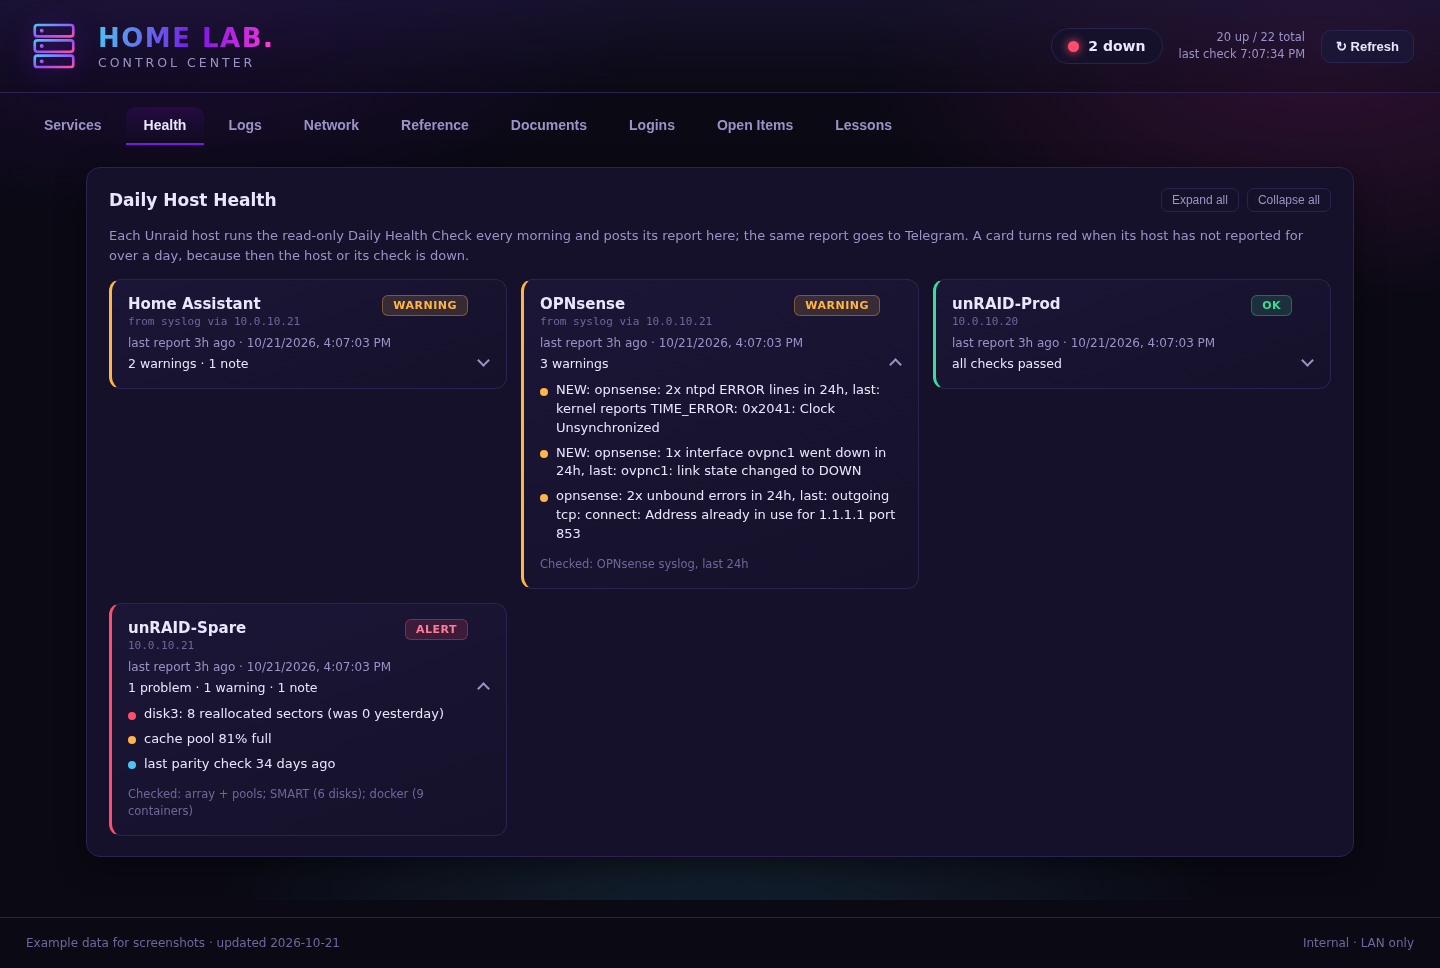
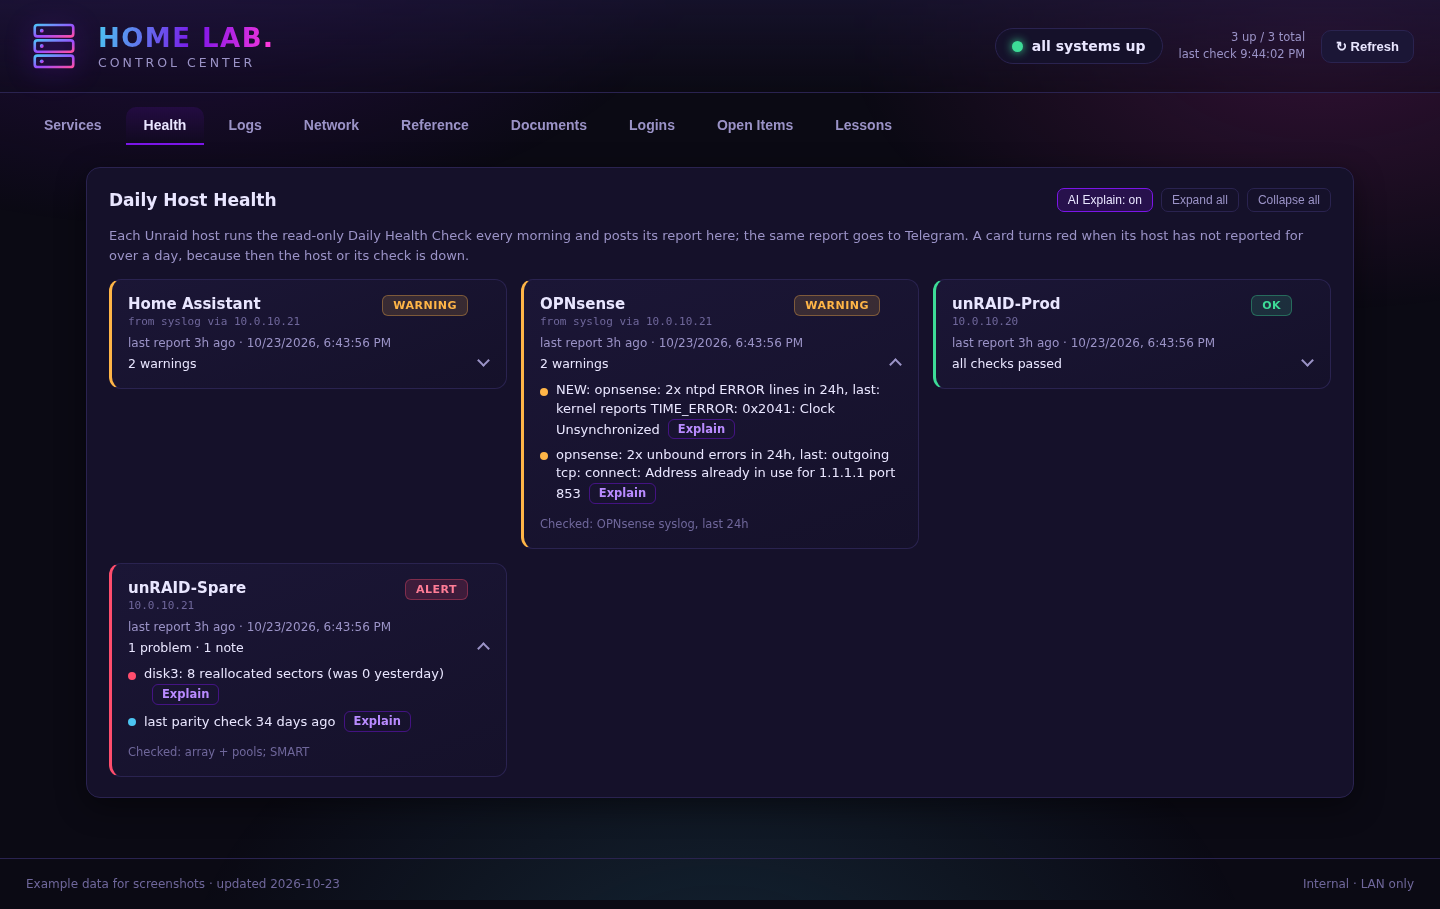
docs: AI Explain has shipped; real screenshots replace the design preview

diff --git a/README.md b/README.md
@@ -71,22 +71,20 @@ Lessons is a searchable record of things that went wrong and how they were fixed
 
 ![Lessons](screenshots/lessons.png)
 
-## In Development: AI Explain
+### AI Explain
+Every problem, warning and note on the Health tab gets an **Explain** button. Clicking it asks a language model running locally on the lab's own GPU (through Ollama) for the likely cause and the next steps to check. One switch in the Health header turns the feature on or off for the whole page.
 
-> **Status:** being built now. The screenshot below is a design preview, not the shipped feature.
+![AI Explain](screenshots/ai-explain.png)
 
-AI Explain adds an **Explain** button to every finding on the Health tab. Clicking it asks a language model running locally on the lab's own GPU (through Ollama) for the likely cause and the next steps. One switch turns the feature on or off for the whole page.
-
-![AI Explain preview](screenshots/ai-explain-preview.png)
-
-How it is designed to work:
+How it works:
 - **Local only.** The model runs on the lab's GPU. Logs never leave the LAN.
-- **Advice, never action.** The model has no tools and can't run commands. Every answer is labelled "AI suggestion · verify before acting".
-- **Shows its evidence.** Each answer lists the log lines it was given, so you can check its reasoning against the source.
-- **Uses the lab's own history.** Matching entries from the Lessons tab are passed to the model with the logs, and the answer cites them.
-- **Doesn't fight other GPU users.** It uses whatever model is already loaded. If the GPU is busy, it says so instead of waiting in line.
-- **Cached.** A finding that repeats the next day reuses its earlier answer.
-- **Treats logs as untrusted.** Log text can come from many sources, so it is passed to the model as data, never as instructions.
+- **Advice, never action.** The model has no tools and can't run commands. Every answer is labelled "AI suggestion · verify before acting" and ends with "Advice only. Nothing was run on any host."
+- **Shows its evidence.** When a finding quotes a log line, the matching lines from the last two days are pulled from the log store, given to the model and shown under the answer, so you can check its reasoning against the source.
+- **Uses the lab's own history.** Lessons that match the finding are given to the model too, and the answer names them.
+- **Plays nicely with other GPU users.** It uses whichever model is already loaded rather than swapping in one of its own. It waits its turn if the GPU is busy, and only one explanation runs at a time.
+- **Saves answers.** A finding that comes back the next day, with only its count or timestamp changed, reuses the earlier answer. **Ask again** gets a fresh one.
+- **Treats logs as untrusted.** Credentials are scrubbed from every line before the model sees it, and log text is passed as data, never as instructions.
+- **Skips stale cards.** Findings on a host that hasn't reported for over a day get no button.
 
 ## How It's Built
 
@@ -94,6 +92,7 @@ How it is designed to work:
 - **API:** a small Python service using only the standard library. It checks each service's status, serves and stores the editable tables, and receives the daily health reports. The tables can only be read or changed through the dashboard itself.
 - **GPU stats:** a separate small service reads the GPU through the NVIDIA driver, so the main API needs no GPU access.
 - **Logs:** Grafana Alloy ships syslog to Loki, and Grafana shows it inside the Logs tab.
+- **AI:** Ollama on a local GPU answers AI Explain requests. The API reads evidence from Loki and sends the model only scrubbed text.
 - **Health checks:** read-only scripts on each Unraid server, run daily by Unraid's User Scripts plugin.
 - **Deploy:** Docker Compose on Unraid.
   - Merged changes to the page and the compose file deploy automatically.
@@ -103,5 +102,5 @@ How it is designed to work:
 
 - LAN only, behind basic auth. Nothing is exposed to the internet.
 - No secrets live in the dashboard or its repository. Passwords stay in the vault.
-- The editable tables accept reads and writes only from the dashboard's web server.
+- The editable tables and AI Explain accept requests only from the dashboard's web server.
 - Health reports are accepted only from the lab's own servers, and each server can update only its own card.
